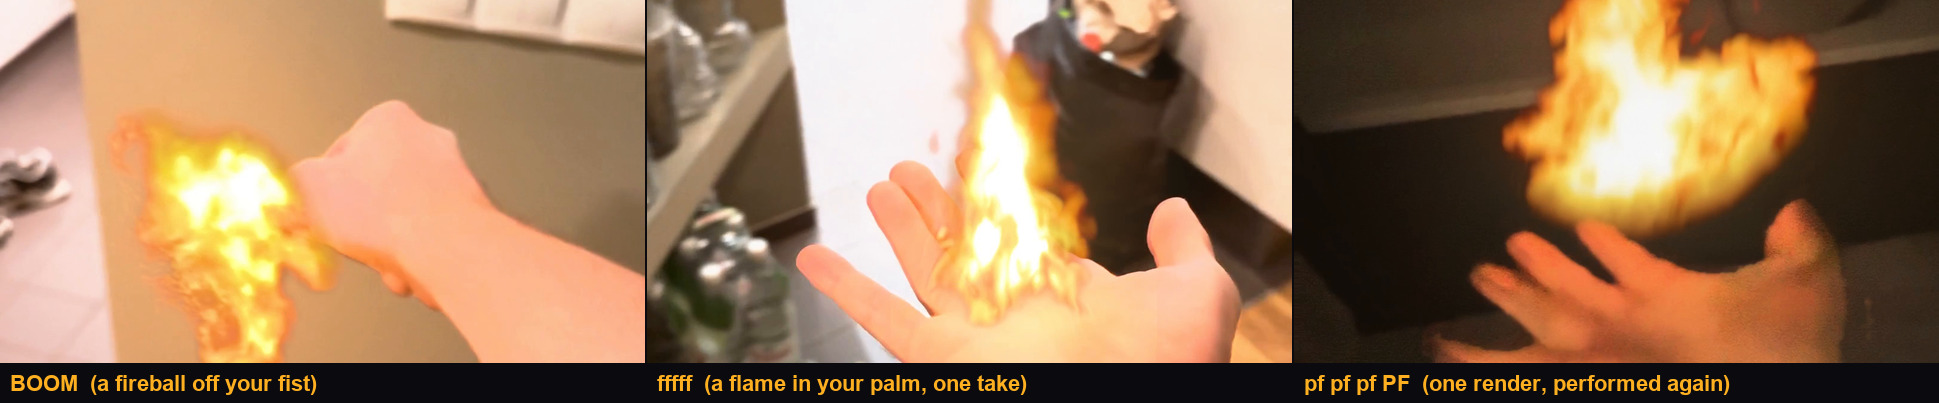
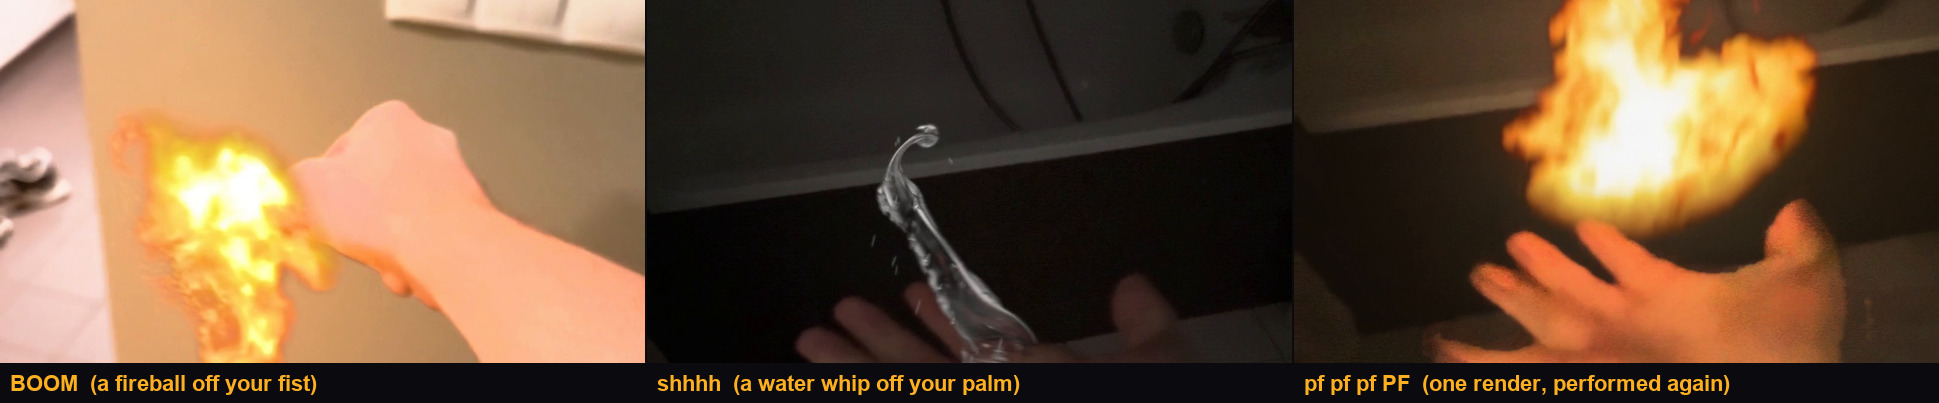
readme: the instrument line, judges sent to the Space first, a numbers table (1 render, 7 performances, 0 new generations, 37 of 42 single hits, measured CPU times), the hero without the walking flame; LICENSE is plain MIT so GitHub reads it; the Space card says the same and gives the measured shot 

Changed region(s): [[0.3094, 0.0, 0.6808, 0.9826]]

diff --git a/tools/demo/hand_hero_card.py b/tools/demo/hand_hero_card.py
@@ -21,7 +21,7 @@ from PIL import Image, ImageDraw, ImageFont
 ROOT = Path(__file__).resolve().parents[2]
 SHOTS = [
     ("hand_punch__boom__fire_burst", "BOOM  (a fireball off your fist)"),
-    ("hand_walk__fffff__flame_plume", "fffff  (a flame in your palm, one take)"),
+    ("hand_palm__shhhhh__water_whip", "shhhh  (a water whip off your palm)"),
     ("hand_palm__pfx4__again", "pf pf pf PF  (one render, performed again)"),
 ]
 W, LABEL, GAP = 645, 40, 2
@@ -51,10 +51,10 @@ def main() -> None:
     parser = argparse.ArgumentParser(description=__doc__)
     parser.add_argument("--gallery", type=Path, default=ROOT / "samples/made_ahead/bending")
     parser.add_argument("--output", type=Path, default=ROOT / "media/hand_hero.jpg")
-    parser.add_argument("--frames", type=int, nargs=3, default=(66, 120, 64),
-                        metavar=("FIST", "WALK", "AGAIN"))
-    parser.add_argument("--tops", type=float, nargs=3, default=(0.27, 0.38, 0.36),
-                        metavar=("FIST", "WALK", "AGAIN"),
+    parser.add_argument("--frames", type=int, nargs=3, default=(66, 52, 64),
+                        metavar=("FIST", "WATER", "AGAIN"))
+    parser.add_argument("--tops", type=float, nargs=3, default=(0.27, 0.30, 0.36),
+                        metavar=("FIST", "WATER", "AGAIN"),
                         help="Top of each 16:9 crop, as a fraction of source height")
     parser.add_argument("--contain-crop", type=int, nargs=5, action="append",
                         metavar=("PANEL", "LEFT", "TOP", "RIGHT", "BOTTOM"),

diff --git a/deploy/space/make_space.py b/deploy/space/make_space.py
@@ -33,7 +33,8 @@ thumbnail: https://huggingface.co/spaces/gshcloud/cue-the-boom/resolve/main/thum
 
 **Generate the effect once. Perform it again with your voice.** Higgsfield's Effects presets, such as Fire Element,
 Air Bending and Explosion, make a new clip every time. Here LTX-2.5 rendered the fire once, and your voice plays it on
-a real hand, as often as you like, with no new generation.
+a real hand, as often as you like, with no new generation. Other AI VFX tools generate an effect for a shot; Cue the
+Boom turns one LTX-2.5 render into an instrument: your voice decides when it fires, how big it plays and how long it burns.
 
 - **Perform it:** choose fire, water, air, explosion or lightning, then record your noise
   over a prepared hand clip. **Perform again** gives the same element a new performance.
@@ -44,7 +45,8 @@ a real hand, as often as you like, with no new generation.
 
 The fire, the air vortex and the explosion's fireball were rendered ahead of time with LTX-2.5 and the ainvfx-fluid
 IC-LoRA in ComfyUI; water, lightning and the explosion's blast are made on this CPU from
-the hand and the voice. This Space runs on a shared CPU: a shot takes a minute or two.
+the hand and the voice. This Space runs on a CPU, no GPU: a new shot takes about 20 to 50 s (fire 45 s, water 18 s,
+measured on 2 Nov).
 
 The full app, with renders of its own on a GPU: https://github.com/grzenio22/cue-the-boom
 

diff --git a/README.md b/README.md
@@ -2,6 +2,8 @@
 
 **Generate the effect once. Perform it again with your voice.**
 
+Other AI VFX tools generate an effect for a shot. Cue the Boom turns one LTX-2.5 render into an instrument: your voice decides when it fires, how big it plays and how long it burns, on a CPU.
+
 [![Watch the demo (1:54)](media/demo_thumb.jpg)](https://github.com/grzenio22/cue-the-boom/releases/tag/contest-2026-10-30)
 
 **[Watch the demo](https://github.com/grzenio22/cue-the-boom/releases/tag/contest-2026-10-30) · [Try it in your browser, no GPU](https://gshcloud-cue-the-boom.hf.space)**
@@ -13,12 +15,22 @@ Higgsfield's Effects presets, such as Fire Element, Air Bending, Explosion and T
 
 [Try it, no GPU](#try-it-on-your-computer-no-gpu) · [Try it live](#try-it-live-with-your-webcam) · [Why it's new](#why-its-new) · [How it works](#how-it-works) · [In ComfyUI](#comfyui-and-the-comfy-developer-platform) · [In detail](TECHNICAL.md)
 
-**Licence:** code under [MIT](LICENSE), with [`cuesync/` under Apache-2.0](cuesync/LICENSE). [Credits and licences](#credits-and-licences).
+**Licence:** code under [MIT](LICENSE), with [`cuesync/` under Apache-2.0](cuesync/LICENSE); exceptions and third-party notices in [NOTICE.md](NOTICE.md). [Credits and licences](#credits-and-licences).
 
-**Judging it?** No GPU, a few minutes: [install and start the studio](#try-it-on-your-computer-no-gpu), choose **Fire**, click **Perform this fire with your voice**, then **Try a sample voice instead** (or use your microphone). **Perform again** plays the same LTX-2.5 render in a new rhythm, with no new generation.
+**Judging it?** Fastest: [the Space](https://gshcloud-cue-the-boom.hf.space) in your browser, nothing to install. Or on your computer, no GPU, a few minutes: [install and start the studio](#try-it-on-your-computer-no-gpu). Either way, choose **Fire**, click **Perform this fire with your voice**, then **Try a sample voice instead** (or use your microphone). **Perform again** plays the same LTX-2.5 render in a new rhythm, with no new generation.
 
-![The author's own hand: BOOM throws a fireball off the fist, a held fffff keeps a flame in the palm through a walk from a hallway into a kitchen in one take, and a render performed again as pf pf pf PF](media/hand_hero.jpg)
-<sub>The author's own hand and voice, filmed on a phone. The third is a render performed again in a new rhythm, with no new render.</sub>
+| In numbers | |
+| --- | --- |
+| LTX-2.5 renders behind the palm fire in the gallery | **1** |
+| Recorded performances of that one render in the gallery | **7** (the author and four strangers' CC0 recordings) |
+| New model generations for those 7 performances | **0** |
+| Rendered into a scene with the CueSync nodes: single hits within 1 frame of their cue | **37 of 42** (0 of 42 straight from the model) |
+| A new performance on the Space's CPU (Hugging Face CPU Upgrade, 2 Nov) | fire **45 s**, water **18 s** |
+| On a desktop CPU from a fresh clone (Ryzen 9 7900X, Windows and Linux, 28 Oct) | fire performed again **21-53 s**, water **30-42 s** |
+| GPU needed to try it | **none** |
+
+![The author's own hand: BOOM throws a fireball off the fist, shhhh lashes a water whip off the palm, and a render performed again as pf pf pf PF](media/hand_hero.jpg)
+<sub>The author's own hand, filmed on a phone. The fire is a stored LTX-2.5 render played by the author's voice; the water is made on the CPU from the hand and a sample shhhh. The third is the same render performed again in a new rhythm, with no new render.</sub>
 
 The fire, the air vortex and the explosion's fireball are rendered once over black by **LTX-2.5** with the **[ainvfx-fluid](https://huggingface.co/AInVFX/ainvfx-fluid)** IC-LoRA, in a ComfyUI workflow sent through the Comfy Python SDK. **Lightning is a procedural CPU effect**, and the CPU makes the explosion's blast and does the compositing and light. An entry for Comfy's **[Open Source Higgsfield](https://comfy.org/open-source-higgsfield)** contest, on open weights only.
 
